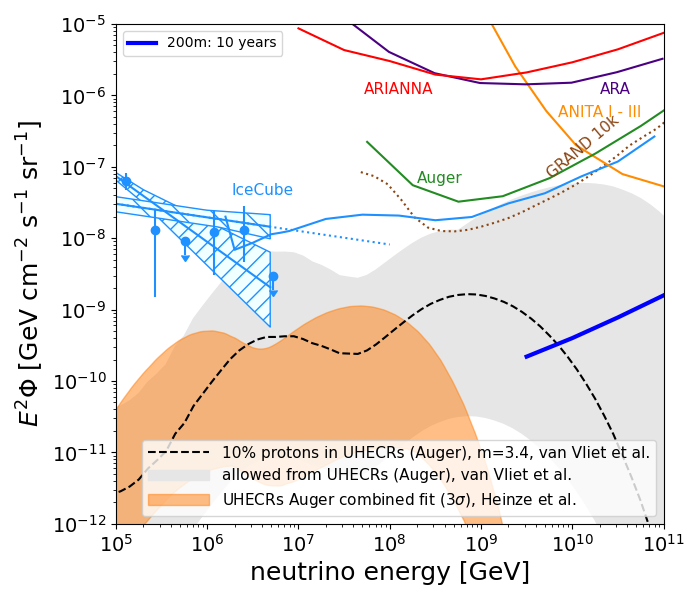
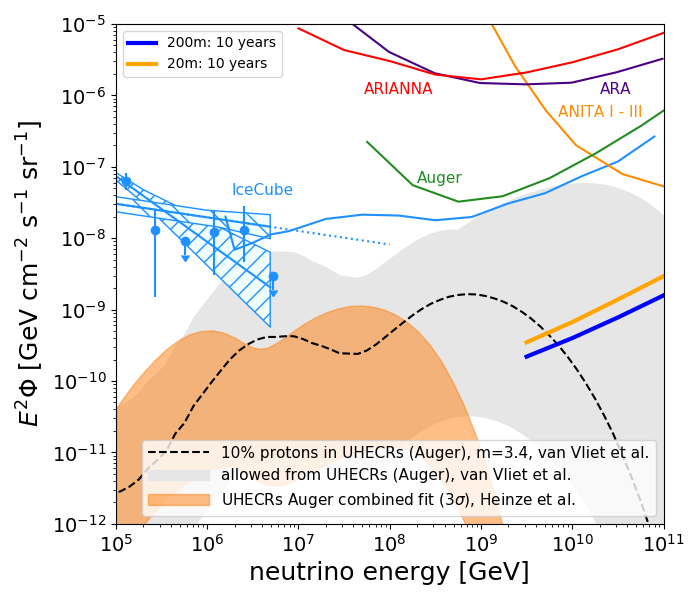
add version that has most of the plots that I want

diff --git a/analysis/2020.10_plot_limit/plot_veffs_and_limits.py b/analysis/2020.10_plot_limit/plot_veffs_and_limits.py
@@ -9,46 +9,102 @@ import os
 import sys
 
 from NuRadioReco.utilities import units
-from NuRadioReco.detector import detector
 from NuRadioMC.utilities import fluxes
 from NuRadioMC.utilities.Veff import get_Veff_Aeff, get_Veff_Aeff_array, get_index, get_Veff_water_equivalent
 from NuRadioMC.examples.Sensitivities import E2_fluxes3 as limits
-plt.switch_backend('agg')
+# plt.switch_backend('agg')
+
+class veff_info:
+	pass
+
+def load_veff_info(depth):
+	holder = veff_info()
+	npzfile = np.load('veffs_'+depth+'m.npz')
+	holder.Veffs = npzfile['Veffs']
+	holder.energies = npzfile['energies']
+	holder.energies_low = npzfile['energies_low']
+	holder.energies_up = npzfile['energies_up']
+	holder.zenith_bins = npzfile['zenith_bins']
+	holder.utrigger_names = npzfile['utrigger_names']
+	return holder
+
 
 if __name__ == "__main__":
 
-	# reopen the saved npz file
-	npzfile = np.load('veffs_200m.npz')
-	Veffs = npzfile['Veffs']
-	energies = npzfile['energies']
-	energies_low = npzfile['energies_low']
-	energies_up = npzfile['energies_up']
-	zenith_bins = npzfile['zenith_bins']
-	utrigger_names = npzfile['utrigger_names']
+	depths=['200', '20']
+	data_holders = {}
+	for i, depth in enumerate(depths):
+		data_holders[depth] = load_veff_info(depth)
 
-	# calculate the average over all zenith angle bins (in this case only one bin that contains the full sky)
-	Veff = np.average(Veffs[:, :, get_index("dipole_1.0sigma", utrigger_names), 0], axis=1)
-	# we also want the water equivalent effective volume times 4pi
-	Veff = get_Veff_water_equivalent(Veff) * 4 * np.pi
-	# calculate the uncertainty for the average over all zenith angle bins. The error relative error is just 1./sqrt(N)
-	Veff_error = Veff / np.sum(Veffs[:, :, get_index("dipole_1.0sigma", utrigger_names), 2], axis=1) ** 0.5
-	# plot effective volume
-	fig, ax = plt.subplots(1, 1, figsize=(6, 6))
-	ax.errorbar(energies / units.eV, Veff / units.km ** 3 / units.sr,
-				yerr=Veff_error / units.km ** 3 / units.sr, fmt='d-')
-	ax.semilogx(True)
-	ax.semilogy(True)
-	ax.set_xlabel("neutrino energy [eV]")
-	ax.set_ylabel("effective volume [km$^3$ sr]")
-	# ax.set_ylim([1e3,3e3])
-	fig.tight_layout()
-	fig.savefig("Veff.png")
+
+	# plot for veff
+	fig_veff = plt.figure(figsize=(11,8))
+	ax_veff = fig_veff.add_subplot(111)
+
+	fig_veff_vs_dec = plt.figure(figsize=(11,8))
+	ax_veff_vs_dec = fig_veff_vs_dec.add_subplot(111)
+
+	# as well as for limit
+	fig_limit, ax_limit = limits.get_E2_limit_figure(diffuse=True, show_grand_10k=False, show_grand_200k=False)
+	labels = []
+
+	colors = ['blue', 'orange']
+
+	for iD, depth in enumerate(depths):
+		# calculate the average over all zenith angle bins (in this case only one bin that contains the full sky)
+		Veff = np.average(data_holders[depth].Veffs[:, :, get_index("dipole_1.0sigma", data_holders[depth].utrigger_names), 0], axis=1)
+		# we also want the water equivalent effective volume times 4pi
+		Veff = get_Veff_water_equivalent(Veff) * 4 * np.pi
+		# calculate the uncertainty for the average over all zenith angle bins. The error relative error is just 1./sqrt(N)
+		Veff_error = Veff / np.sum(data_holders[depth].Veffs[:, :, get_index("dipole_1.0sigma", data_holders[depth].utrigger_names), 2], axis=1) ** 0.5
+		# plot effective volume
+	
+		ax_veff.errorbar(data_holders[depth].energies / units.eV, Veff / units.km ** 3 / units.sr,
+			yerr=Veff_error / units.km ** 3 / units.sr, fmt='o-', color=colors[iD], linewidth=3, label=depth+'m')
+
+		labels = limits.add_limit(ax_limit, labels, data_holders[depth].energies, Veff,
+			n_stations=1, label=depth+'m', livetime=10 * units.year, linestyle='-', color=colors[iD], linewidth=3)
+
+		# and declination band scan
+		if iD<1:
+			for iE in range(len(data_holders[depth].energies)):
+				banded_veff = []
+				banded_veff_err = []
+				for band in range(20):
+					this_veff = data_holders[depth].Veffs[iE,band,get_index("dipole_1.0sigma", data_holders[depth].utrigger_names),0]
+					this_veff = get_Veff_water_equivalent(this_veff)
+					this_veff_err = this_veff / np.sum(data_holders[depth].Veffs[iE,band,get_index("dipole_1.0sigma", data_holders[depth].utrigger_names), 2]) ** 0.5
+					banded_veff.append(this_veff)
+					banded_veff_err.append(this_veff_err)
+				banded_veff = np.asarray(banded_veff)
+				banded_veff_err = np.asarray(banded_veff_err)
+				# nb, zenith_bins is 2D array oc czmins and czmaxs, so wen eed to slice against it
+				ax_veff_vs_dec.plot(np.cos(data_holders[depth].zenith_bins[:,0]), 
+					banded_veff/units.km ** 3, 
+					# yerr = banded_veff_err/units.km ** 3,
+					label=np.log10(data_holders[depth].energies[iE]),
+					linewidth=2)
+
+	# plot the veffs
+	ax_veff.set_yscale('log')
+	ax_veff.set_xscale('log')
+	ax_veff.set_xlabel("neutrino energy [eV]",size=20)
+	ax_veff.set_ylabel("effective volume [km$^3$ sr]",size=20)
+	ax_veff.tick_params(labelsize=20)
+	ax_veff.legend(fontsize=20)
+	fig_veff.savefig("veff.png",edgecolor='none', bbox_inches='tight')
+
+	ax_veff_vs_dec.set_yscale('log')
+	# ax_veff_vs_dec.set_xscale('log')
+	ax_veff_vs_dec.set_xlabel(r'cos($\theta$)',size=20)
+	ax_veff_vs_dec.set_ylabel("effective volume [km$^3$]",size=20)
+	ax_veff_vs_dec.tick_params(labelsize=20)
+	ax_veff_vs_dec.legend(fontsize=20)
+	ax_veff_vs_dec.set_ylim([10,3e3])
+	ax_veff_vs_dec.set_xlim([-0.25,1.1])
+	fig_veff_vs_dec.savefig("veff_vs_dec.png",edgecolor='none', bbox_inches='tight')
+
 
 	# plot expected limit
-	fig, ax = limits.get_E2_limit_figure(diffuse=True, show_grand_10k=True, show_grand_200k=False)
-	labels = []
-	labels = limits.add_limit(ax, labels, energies, Veff,
-							  n_stations=1, label='200m', livetime=10 * units.year, linestyle='-', color='blue', linewidth=3)
 	leg = plt.legend(handles=labels, loc=2)
-	fig.savefig("limits.png")
-	plt.show()
+	fig_limit.savefig("limits.png")
